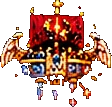
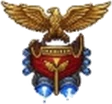
Legio Stellaris: new top-down warship, blade shots and pickups
- Forward-view ship pv0-7 (cruise then boost thrust), smoking damage
  frame (pvhit) and eagle wreck (pvwreck).
- Blue blade shots pshot0-4; forward-view pickups pu0-4 (R, Tesla,
  shield, missile, eagle extra life). Sizes match the old sprites.
- Image cache stamp bumped to v=7.

Claude-Session: https://claude.ai/code/session_01T4Ncn1TLi39LZCyjUJH1gr

diff --git a/stars/index.html b/stars/index.html
@@ -9,7 +9,7 @@
   <title>Legio Stellaris · A Roman Space Shooter by Marcos Garcia</title>
   <meta name="description" content="Rise from lowly Star Fighter to Imperator. A Roman space shooter in eight levels, each a side-scrolling assault followed by a Galaga-style forward assault. Free, in your browser.">
   <link rel="stylesheet" href="../fonts.css">
-  <link rel="stylesheet" href="game.css?v=6">
+  <link rel="stylesheet" href="game.css?v=7">
 </head>
 <body>
 <div id="stage">
@@ -33,6 +33,6 @@
   <span><b>1/Shift</b> barrel roll</span><span><b>2</b> missile strike</span><span><b>3</b> drone attack</span><span><b>4/X</b> EMP</span><span><b>5</b> Tesla chain strike</span>
   <span><b>P</b> pause</span><span><b>M</b> sound</span>
 </div>
-<script src="game.js?v=6"></script>
+<script src="game.js?v=7"></script>
 </body>
 </html>

diff --git a/stars/game.js b/stars/game.js
@@ -7,7 +7,7 @@ const C = document.getElementById('game');
 const ctx = C.getContext('2d');
 const IMG = {};
 let loadedCount = 0, assetTotal = Object.keys(ASSETS).length;
-for (const k in ASSETS) { const im = new Image(); im.onload = () => { loadedCount++; }; im.src = ASSETS[k] + '?v=6'; IMG[k] = im; }
+for (const k in ASSETS) { const im = new Image(); im.onload = () => { loadedCount++; }; im.src = ASSETS[k] + '?v=7'; IMG[k] = im; }
 
 // ---------- utils ----------
 const rnd = (a, b) => a + Math.random() * (b - a);
